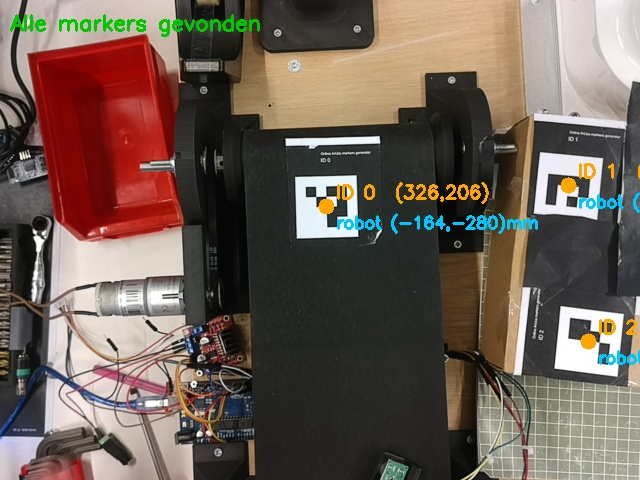
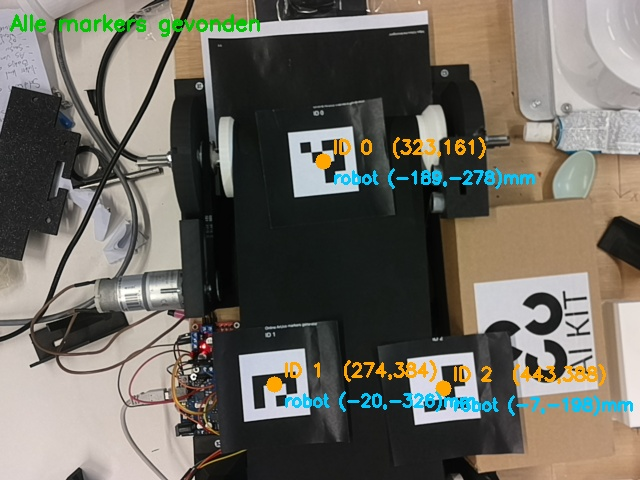
andere_inmeeting

diff --git a/src/my_xarm_lite6/my_demo/scripts/test_send_goal.py b/src/my_xarm_lite6/my_demo/scripts/test_send_goal.py
@@ -29,9 +29,9 @@ def main():
     goal = PickPlaceGoal()
     
     # Vul de test-coördinaten in (het doel waar de robot heen moet)
-    goal.target_pose.position.x = -0.0909
-    goal.target_pose.position.y = -0.2775
-    goal.target_pose.position.z = 0.165  # (De server overschrijft deze momenteel naar 0.165, maar we vullen hem netjes in)
+    goal.target_pose.position.x = -0.1638
+    goal.target_pose.position.y = -0.280
+    goal.target_pose.position.z = 0.4  # (De server overschrijft deze momenteel naar 0.165, maar we vullen hem netjes in)
     
     # Vul de quaternion oriëntatie in die uit de camera kwam
     goal.target_pose.orientation.x = 0.0

diff --git a/src/my_depthai/scripts/calibratie_config.py b/src/my_depthai/scripts/calibratie_config.py
@@ -13,9 +13,9 @@ MARKER_IDS = [0, 1, 2]
 
 # Robot-coördinaten (x, y) per marker ID in mm — inmeten met de robot
 MARKER_ROBOT_COORDS = {
-    0: (-163.8, -280.5),
-    1: (-164, -96),
-    2: ( -44,  -90),
+    0: (-188.7, -277.5),
+    1: (-19.9, -326.3),
+    2: ( -7.3,  -197.8),
 }
 
 # Vaste Z-hoogte van het oppakpunt in het robot-assenstelsel (mm)

diff --git a/src/hoofdprogramma/hoofdprogramma/scripts/hoofdprogramma_node.py b/src/hoofdprogramma/hoofdprogramma/scripts/hoofdprogramma_node.py
@@ -236,7 +236,7 @@ class Hoofdprogramma(object):
 
             if not (vision and vision.success):
                 rospy.logwarn("Geen object gedetecteerd, volgende ronde...")
-                rospy.sleep(1.0)
+                rospy.sleep(3.0)
                 continue
 
             # --- Stap 4: robot beweegt ---

diff --git a/src/my_depthai/scripts/lokalisatie.py b/src/my_depthai/scripts/lokalisatie.py
@@ -8,7 +8,7 @@ import numpy as np
 
 # ── Per-object strategieën ─────────────────────────────────────────────────────
 
-PICK_PERCENT = 0.35
+PICK_PERCENT = 0.50#0.35
 
 STRATEGIEEN = {
     "Vork": {
